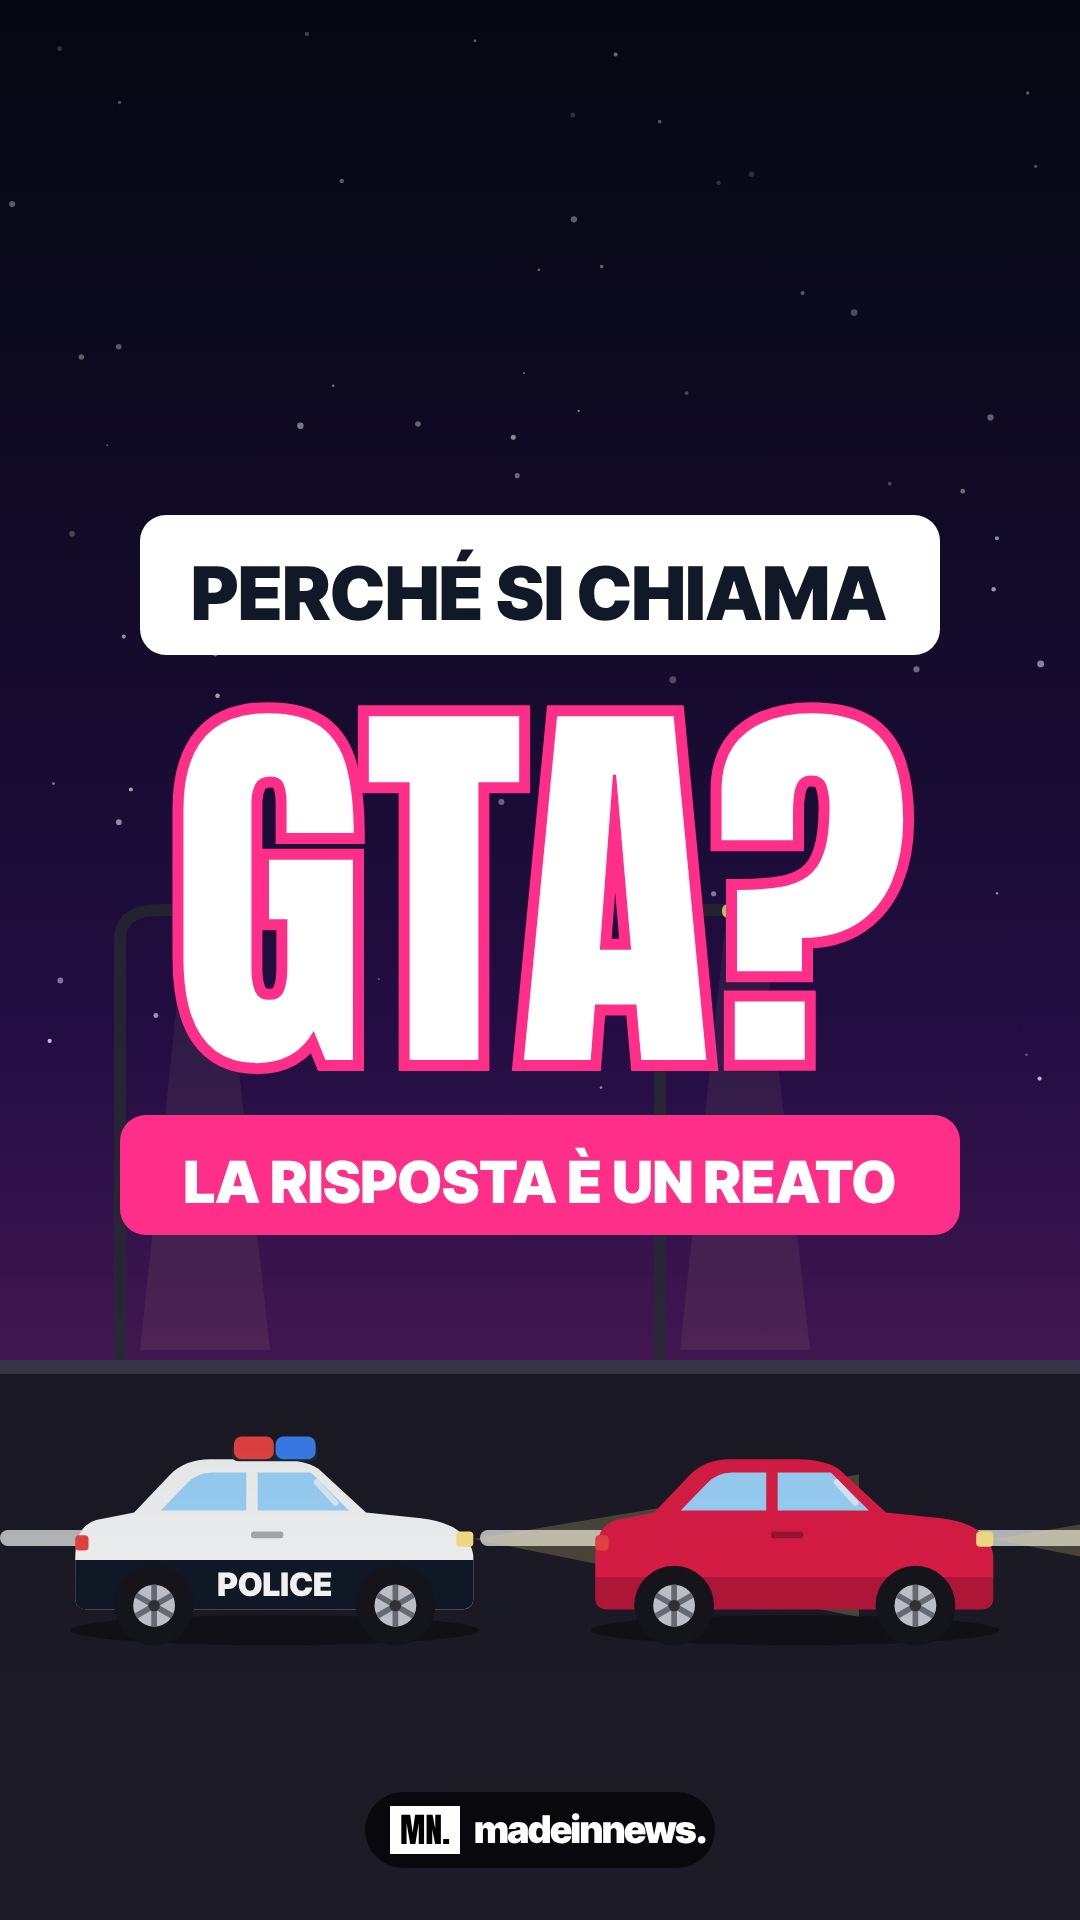
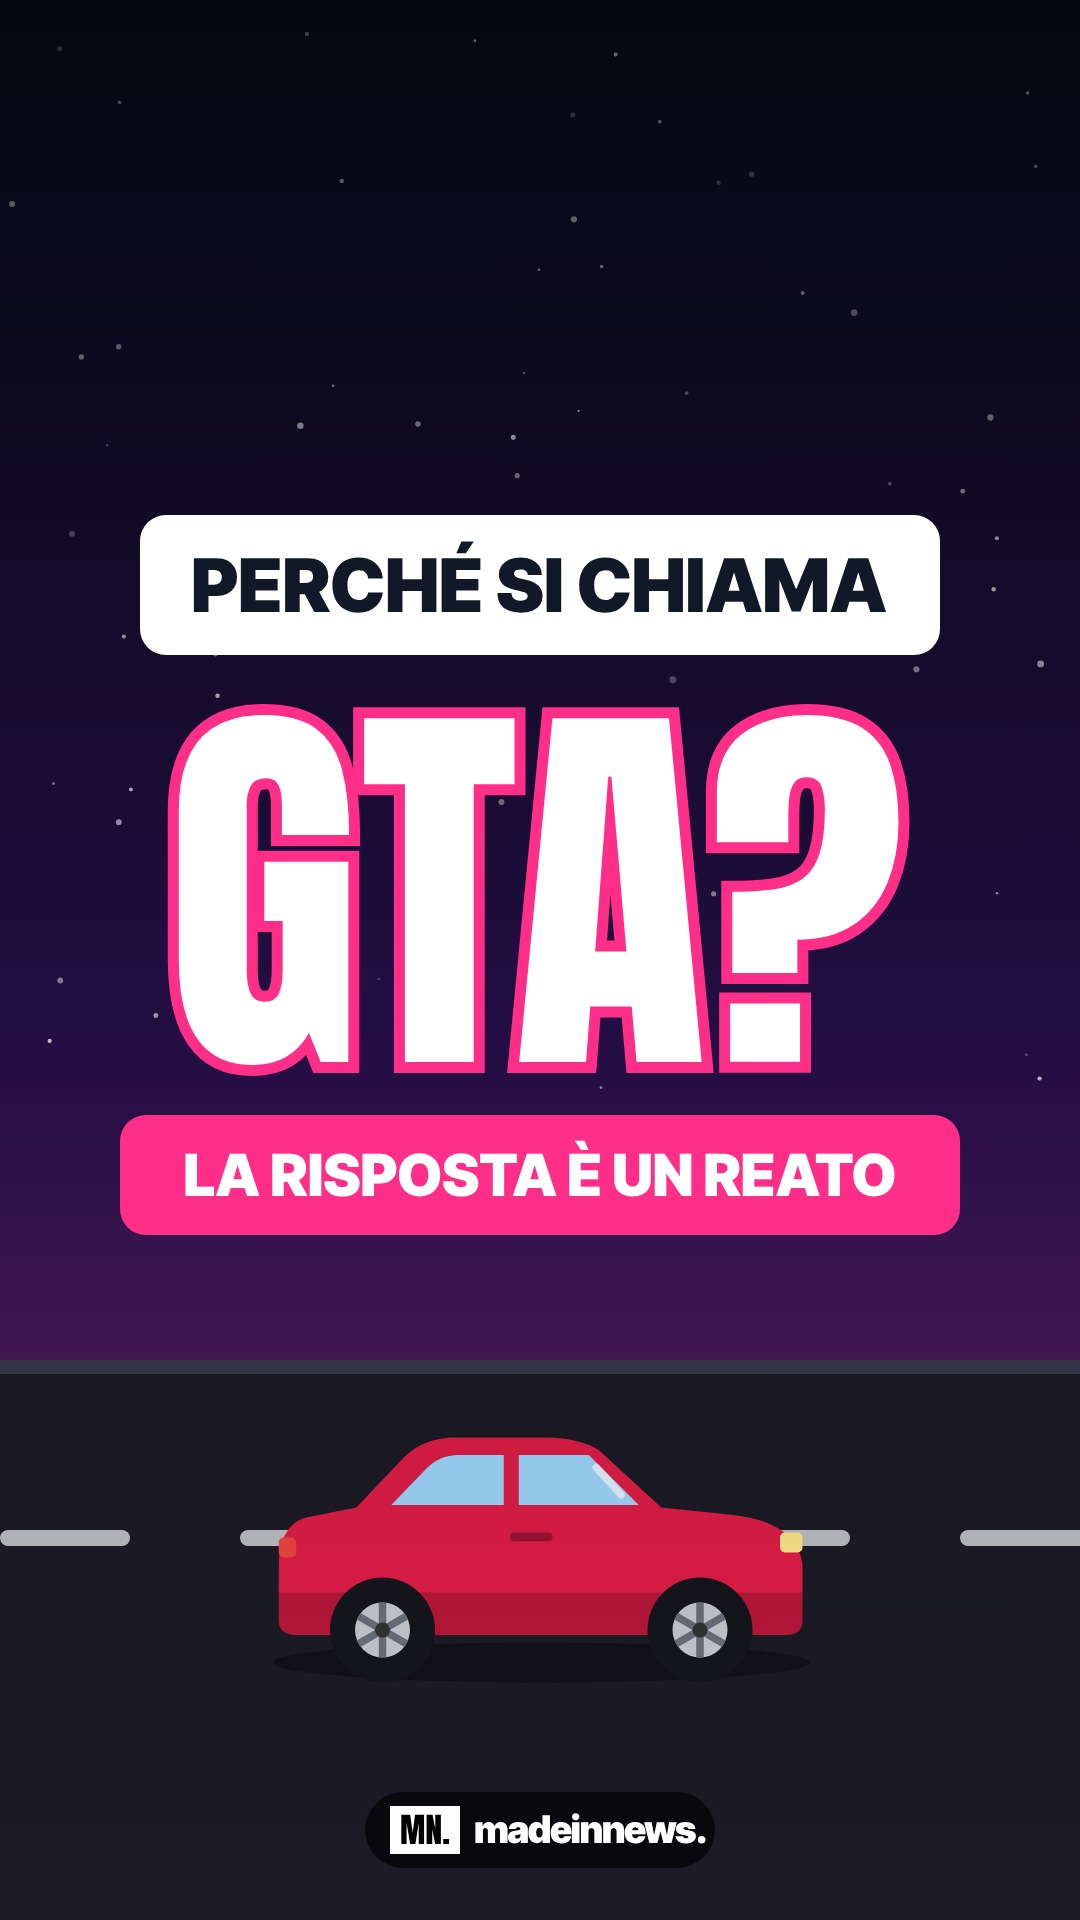
Copertina GTA simmetrica; centratura che ignora gli accenti
Claude-Session: https://claude.ai/code/session_01RiLp1FWEa9A5i6rpLf5r8e

diff --git a/engine/explainer5.js b/engine/explainer5.js
@@ -70,7 +70,7 @@ let AC=true;
 const LA=[];document.querySelectorAll('[data-lot]').forEach(el=>{const a=lottie.loadAnimation({container:el,renderer:'svg',loop:false,autoplay:false,animationData:JSON.parse(JSON.stringify(LOTD[el.dataset.lot])),rendererSettings:{preserveAspectRatio:'xMidYMid meet'}});LA.push([el,a]);});
 function lotRender(root,lt){for(const [el,a] of LA){if(!root.contains(el))continue;const [s=0,sp=1,loop=1]=num(el,'lp');const fr=a.frameRate||30,tot=Math.max(1,a.totalFrames-1);let f=Math.max(0,(lt-s))*fr*sp;f=loop?f%tot:Math.min(f,tot);a.goToAndStop(f,true);}}
 function camRender(s,lt){const c=s.dataset.cam;if(!c)return;const K=c.split('|').map(x=>x.split(',')).map(([t,sc,x,y])=>[t.startsWith('@')?wt(t):Number(t),+sc,+x,+y]).sort((a,b)=>a[0]-b[0]);let cur=K[0];for(let k=0;k<K.length;k++){if(lt>=K[k][0]){const nx=K[k+1];if(nx&&lt<nx[0]){const p=eio((lt-K[k][0])/Math.max(0.6,Math.min(1.2,nx[0]-K[k][0])));cur=[0,K[k][1]+(nx[1]-K[k][1])*p,K[k][2]+(nx[2]-K[k][2])*p,K[k][3]+(nx[3]-K[k][3])*p];}else cur=K[k];}}s.querySelector('.cam').style.transform='translate('+cur[2]+'px,'+cur[3]+'px) scale('+cur[1]+')';}
-let BXD=false;function boxcenter(){const cv=document.createElement('canvas').getContext('2d');document.querySelectorAll('.sc').forEach(sc=>{const d=sc.style.display;sc.style.display='block';sc.querySelectorAll('g.bx').forEach(g=>{const r=g.querySelector(':scope > rect, :scope > circle'),t=g.querySelector(':scope > text');if(!r||!t)return;const rb=r.getBBox();const cs=getComputedStyle(t);cv.font=cs.fontWeight+' '+cs.fontSize+' '+cs.fontFamily;cv.textAlign='left';let m=cv.measureText(t.textContent);let sx=1;if(m.width>rb.width-50){sx=(rb.width-60)/m.width;t.setAttribute('textLength',(m.width*sx).toFixed(1));t.setAttribute('lengthAdjust','spacingAndGlyphs');}const L=m.actualBoundingBoxLeft*sx,R=m.actualBoundingBoxRight*sx,asc=m.actualBoundingBoxAscent,des=m.actualBoundingBoxDescent;t.setAttribute('text-anchor','start');t.setAttribute('x',(rb.x+rb.width/2-(R-L)/2).toFixed(1));t.setAttribute('y',(rb.y+rb.height/2+(asc-des)/2).toFixed(1));});sc.style.display=d;});}
+let BXD=false;function boxcenter(){const cv=document.createElement('canvas').getContext('2d');document.querySelectorAll('.sc').forEach(sc=>{const d=sc.style.display;sc.style.display='block';sc.querySelectorAll('g.bx').forEach(g=>{const r=g.querySelector(':scope > rect, :scope > circle'),t=g.querySelector(':scope > text');if(!r||!t)return;const rb=r.getBBox();const cs=getComputedStyle(t);cv.font=cs.fontWeight+' '+cs.fontSize+' '+cs.fontFamily;cv.textAlign='left';let m=cv.measureText(t.textContent);let sx=1;if(m.width>rb.width-50){sx=(rb.width-60)/m.width;t.setAttribute('textLength',(m.width*sx).toFixed(1));t.setAttribute('lengthAdjust','spacingAndGlyphs');}const m2=cv.measureText(t.textContent.normalize('NFD').replace(/[\u0300-\u036f]/g,''));const L=m.actualBoundingBoxLeft*sx,R=m.actualBoundingBoxRight*sx,asc=m2.actualBoundingBoxAscent,des=m2.actualBoundingBoxDescent;t.setAttribute('text-anchor','start');t.setAttribute('x',(rb.x+rb.width/2-(R-L)/2).toFixed(1));t.setAttribute('y',(rb.y+rb.height/2+(asc-des)/2).toFixed(1));});sc.style.display=d;});}
 window.render=t=>{if(!BXD){boxcenter();BXD=true;}if(!AC){autocenter();AC=true;}document.getElementById('bar').style.width=(t/T*1080)+'px';
  document.getElementById('grid').style.transform='translate('+(-(t*25)%90)+'px,'+(-(t*15)%90)+'px)';
  document.getElementById('glow').style.transform='translate('+Math.sin(t*.5)*140+'px,'+Math.cos(t*.4)*100+'px)';

diff --git a/engine/cover_gta.js b/engine/cover_gta.js
@@ -53,11 +53,11 @@ const chase=(t0,dur)=>{ // red car + police along road loop: y=1010 lane, then u
 
 const bx=(y,w,h,fill,inner)=>`<g class="bx"><rect x="${540-w/2}" y="${y}" width="${w}" height="${h}" rx="26" fill="${fill}"/>${inner}</g>`;
 const svg=`${sky('zs0',[[0,'#0b1026'],[.55,'#2a1050'],[.8,'#5b1d5e'],[1,'#1c1b26']])}${stars(70,1100)}
- ${skyline(3,1360,'#24184a','#ffd36a',4)}${skyline(11,1360,'#160f30','#ffb347',2)}${lamps(1360,0.9)}${road(1360)}
- <g transform="translate(270,1560) scale(.95)">${police(0).replace(/<g data-flash[^>]*><circle[^>]*><\/g>/g,'')}</g><g transform="translate(790,1560) scale(.95)">${car('#e11d48')}</g>
+ ${skyline(3,1360,'#24184a','#ffd36a',4)}${skyline(11,1360,'#160f30','#ffb347',2)}${road(1360)}
+ <g transform="translate(535,1570) scale(1.25)">${car('#e11d48',900,false)}</g>
  <rect width="1080" height="1920" fill="url(#zfade)"/><defs><linearGradient id="zfade" x1="0" y1="0" x2="0" y2="1"><stop offset="0" stop-color="#000" stop-opacity=".55"/><stop offset=".55" stop-color="#000" stop-opacity=".15"/><stop offset="1" stop-color="#000" stop-opacity="0"/></linearGradient></defs>
  ${bx(515,800,140,'#fff',B(540,610,74,'#111827','PERCHÉ SI CHIAMA'))}
- <text x="540" y="1060" text-anchor="middle" class="anton" font-size="400" fill="#fff" stroke="#ff2e88" stroke-width="22" paint-order="stroke">GTA?</text>
+ <g class="bx"><rect x="0" y="700" width="1080" height="380" fill="none"/><text x="540" y="1060" text-anchor="middle" class="anton" font-size="400" fill="#fff" stroke="#ff2e88" stroke-width="22" paint-order="stroke">GTA?</text></g>
  ${bx(1115,840,120,'#ff2e88',B(540,1195,58,'#fff','LA RISPOSTA È UN REATO'))}
  <g transform="translate(540,1830)"><rect x="-175" y="-38" width="350" height="76" rx="38" fill="#000" opacity=".65"/><rect x="-150" y="-24" width="70" height="48" fill="#fff"/><text x="-115" y="14" text-anchor="middle" class="anton" font-size="34" fill="#000">MN.</text><text x="-66" y="13" font-family="Inter Tight" font-weight="900" font-size="38" fill="#fff" letter-spacing="-1.5">madeinnews.</text></g>`;
 module.exports=svg;

diff --git a/engine/render_cover.js b/engine/render_cover.js
@@ -2,5 +2,5 @@ const {chromium}=require('playwright');const svg=require(process.argv[2]);
 (async()=>{const b=await chromium.launch();const p=await b.newPage({viewport:{width:1080,height:1920}});
 await p.setContent(`<html><head><link href="https://fonts.googleapis.com/css2?family=Anton&family=Inter+Tight:wght@900&display=block" rel="stylesheet"><style>body{margin:0}.anton{font-family:Anton}svg text{font-family:'Inter Tight'}svg text.anton{font-family:Anton}</style></head><body><svg viewBox="0 0 1080 1920" width="1080" height="1920">${svg}</svg></body></html>`,{waitUntil:'networkidle'});
 await p.evaluate(()=>document.fonts.ready);
-await p.evaluate(()=>{const cv=document.createElement('canvas').getContext('2d');document.querySelectorAll('g.bx').forEach(g=>{const r=g.querySelector(':scope > rect').getBBox(),t=g.querySelector(':scope > text');const cs=getComputedStyle(t);cv.font=cs.fontWeight+' '+cs.fontSize+' '+cs.fontFamily;const m=cv.measureText(t.textContent);t.setAttribute('text-anchor','start');t.setAttribute('x',r.x+r.width/2-(m.actualBoundingBoxRight-m.actualBoundingBoxLeft)/2);t.setAttribute('y',r.y+r.height/2+(m.actualBoundingBoxAscent-m.actualBoundingBoxDescent)/2);});});
+await p.evaluate(()=>{const cv=document.createElement('canvas').getContext('2d');document.querySelectorAll('g.bx').forEach(g=>{const r=g.querySelector(':scope > rect').getBBox(),t=g.querySelector(':scope > text');const cs=getComputedStyle(t);cv.font=cs.fontWeight+' '+cs.fontSize+' '+cs.fontFamily;const m=cv.measureText(t.textContent);const m2=cv.measureText(t.textContent.normalize('NFD').replace(/[\u0300-\u036f]/g,''));t.setAttribute('text-anchor','start');t.setAttribute('x',r.x+r.width/2-(m.actualBoundingBoxRight-m.actualBoundingBoxLeft)/2);t.setAttribute('y',r.y+r.height/2+(m2.actualBoundingBoxAscent-m2.actualBoundingBoxDescent)/2);});});
 await p.screenshot({path:process.argv[3]});await b.close();})();
